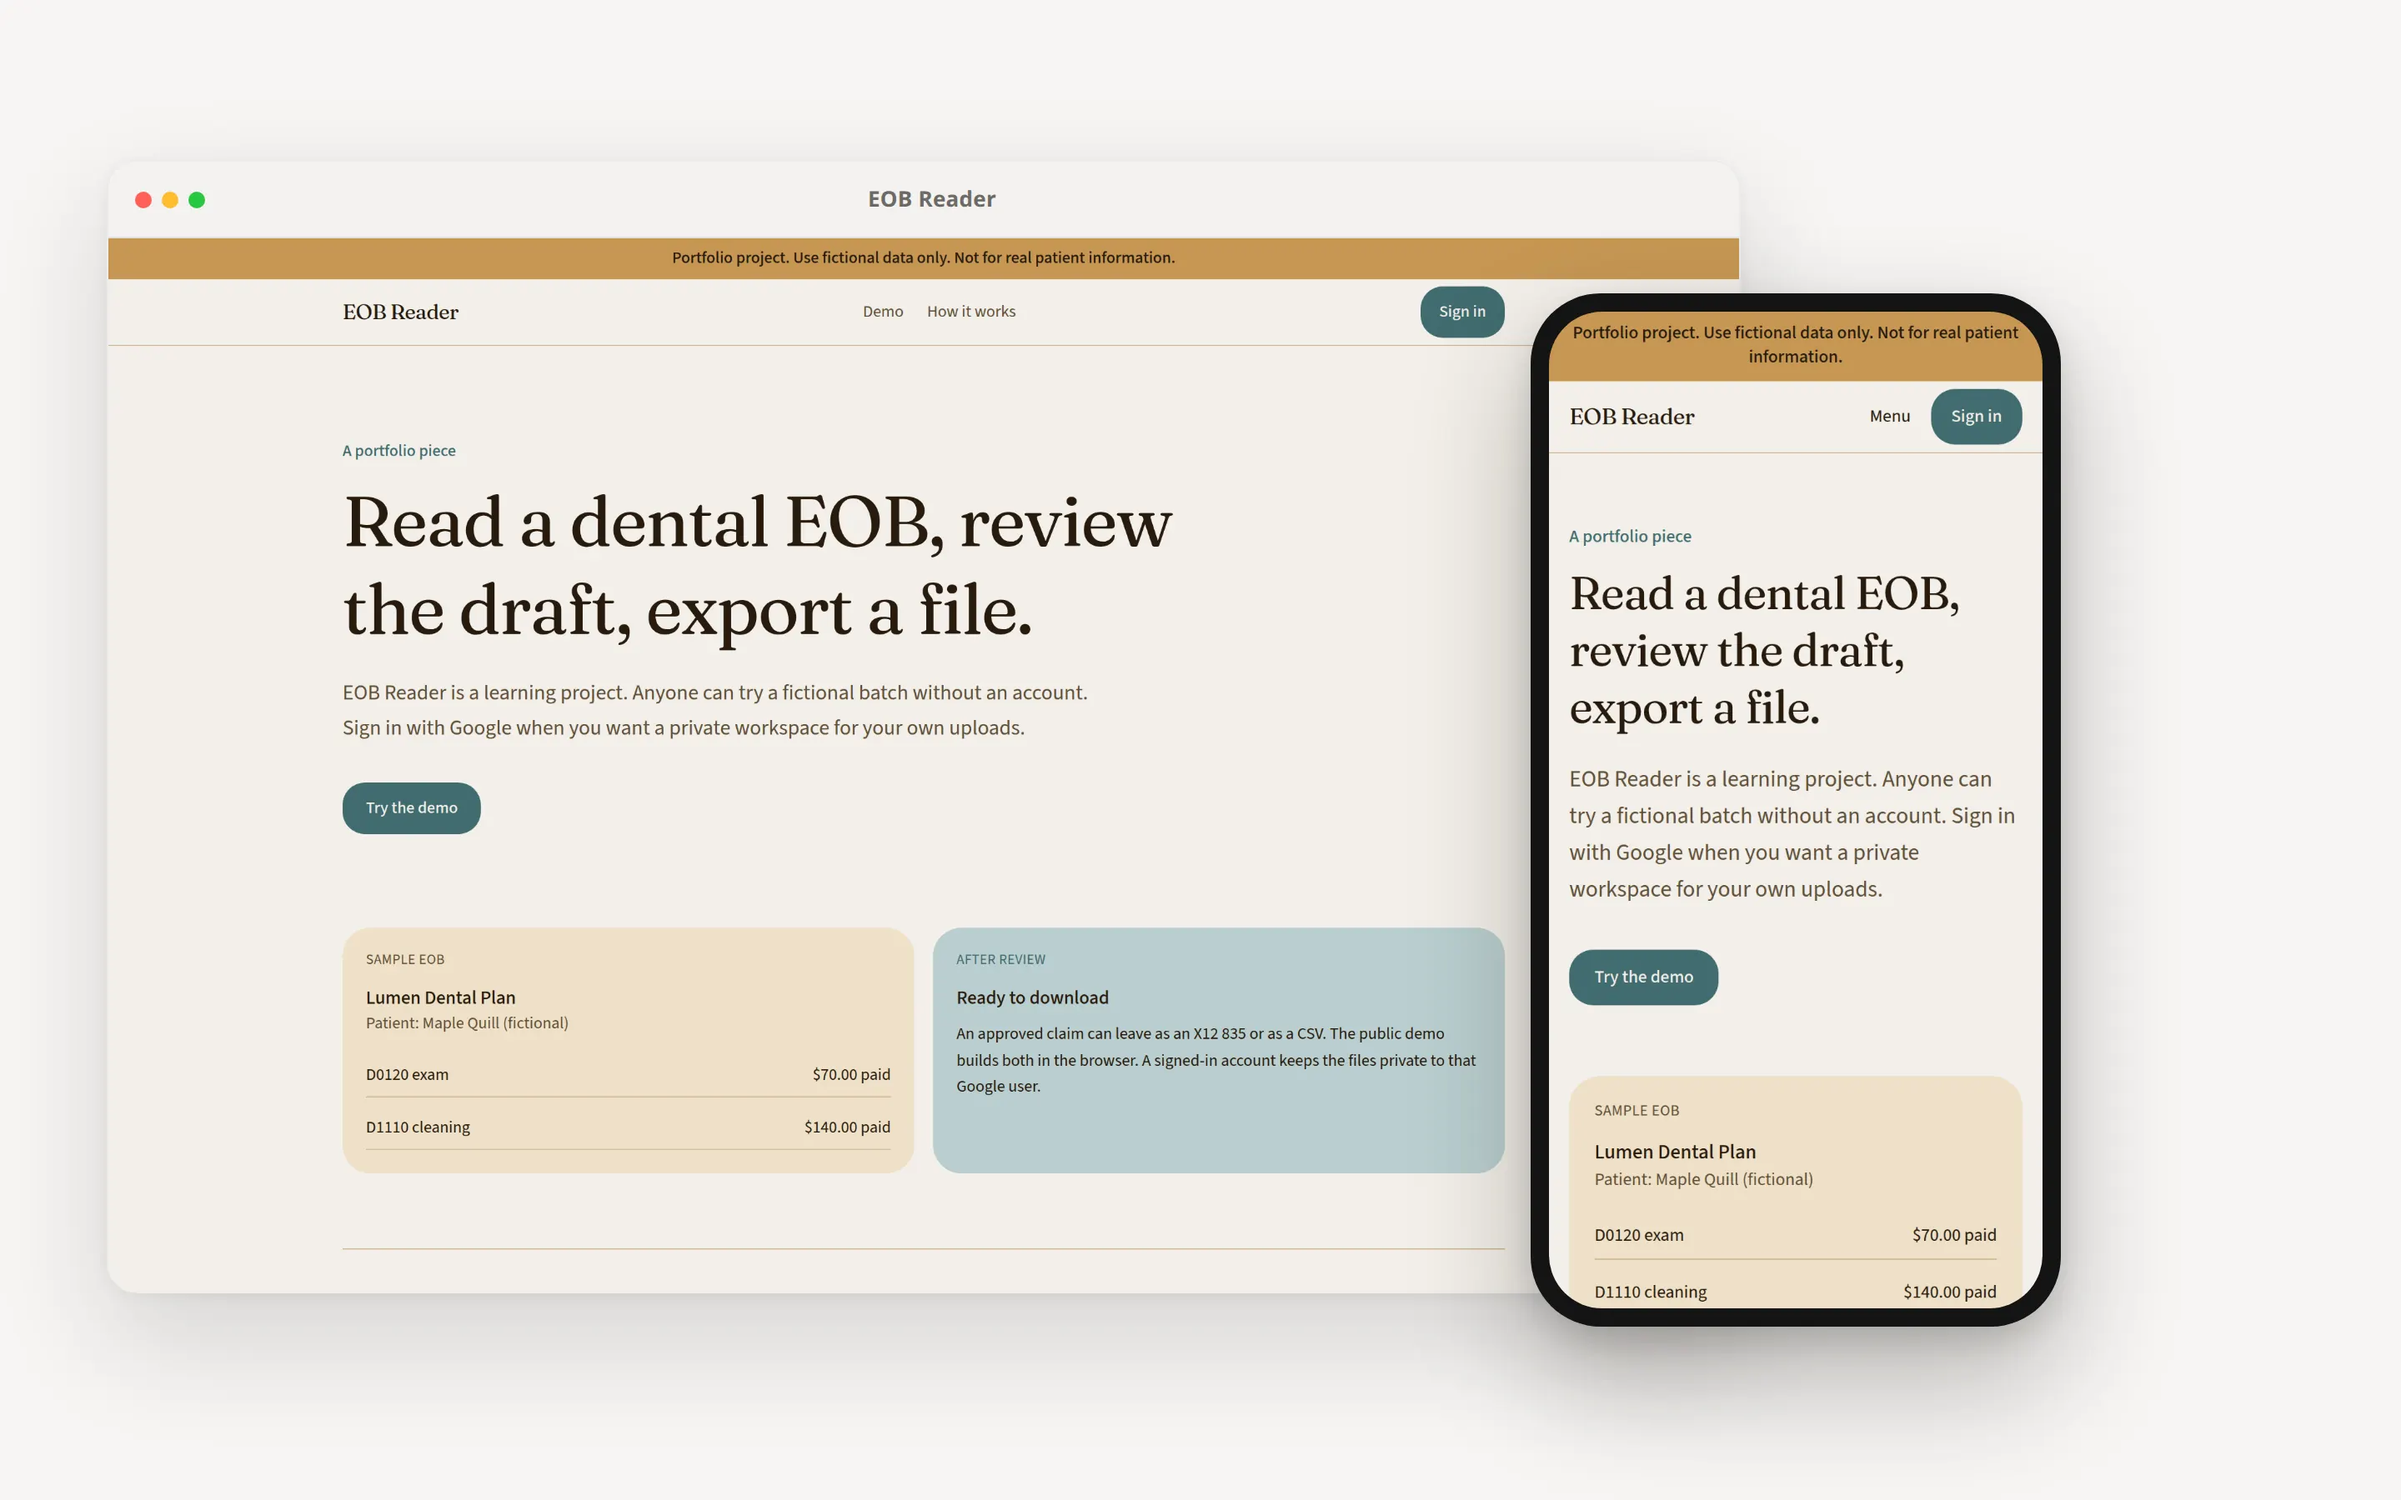
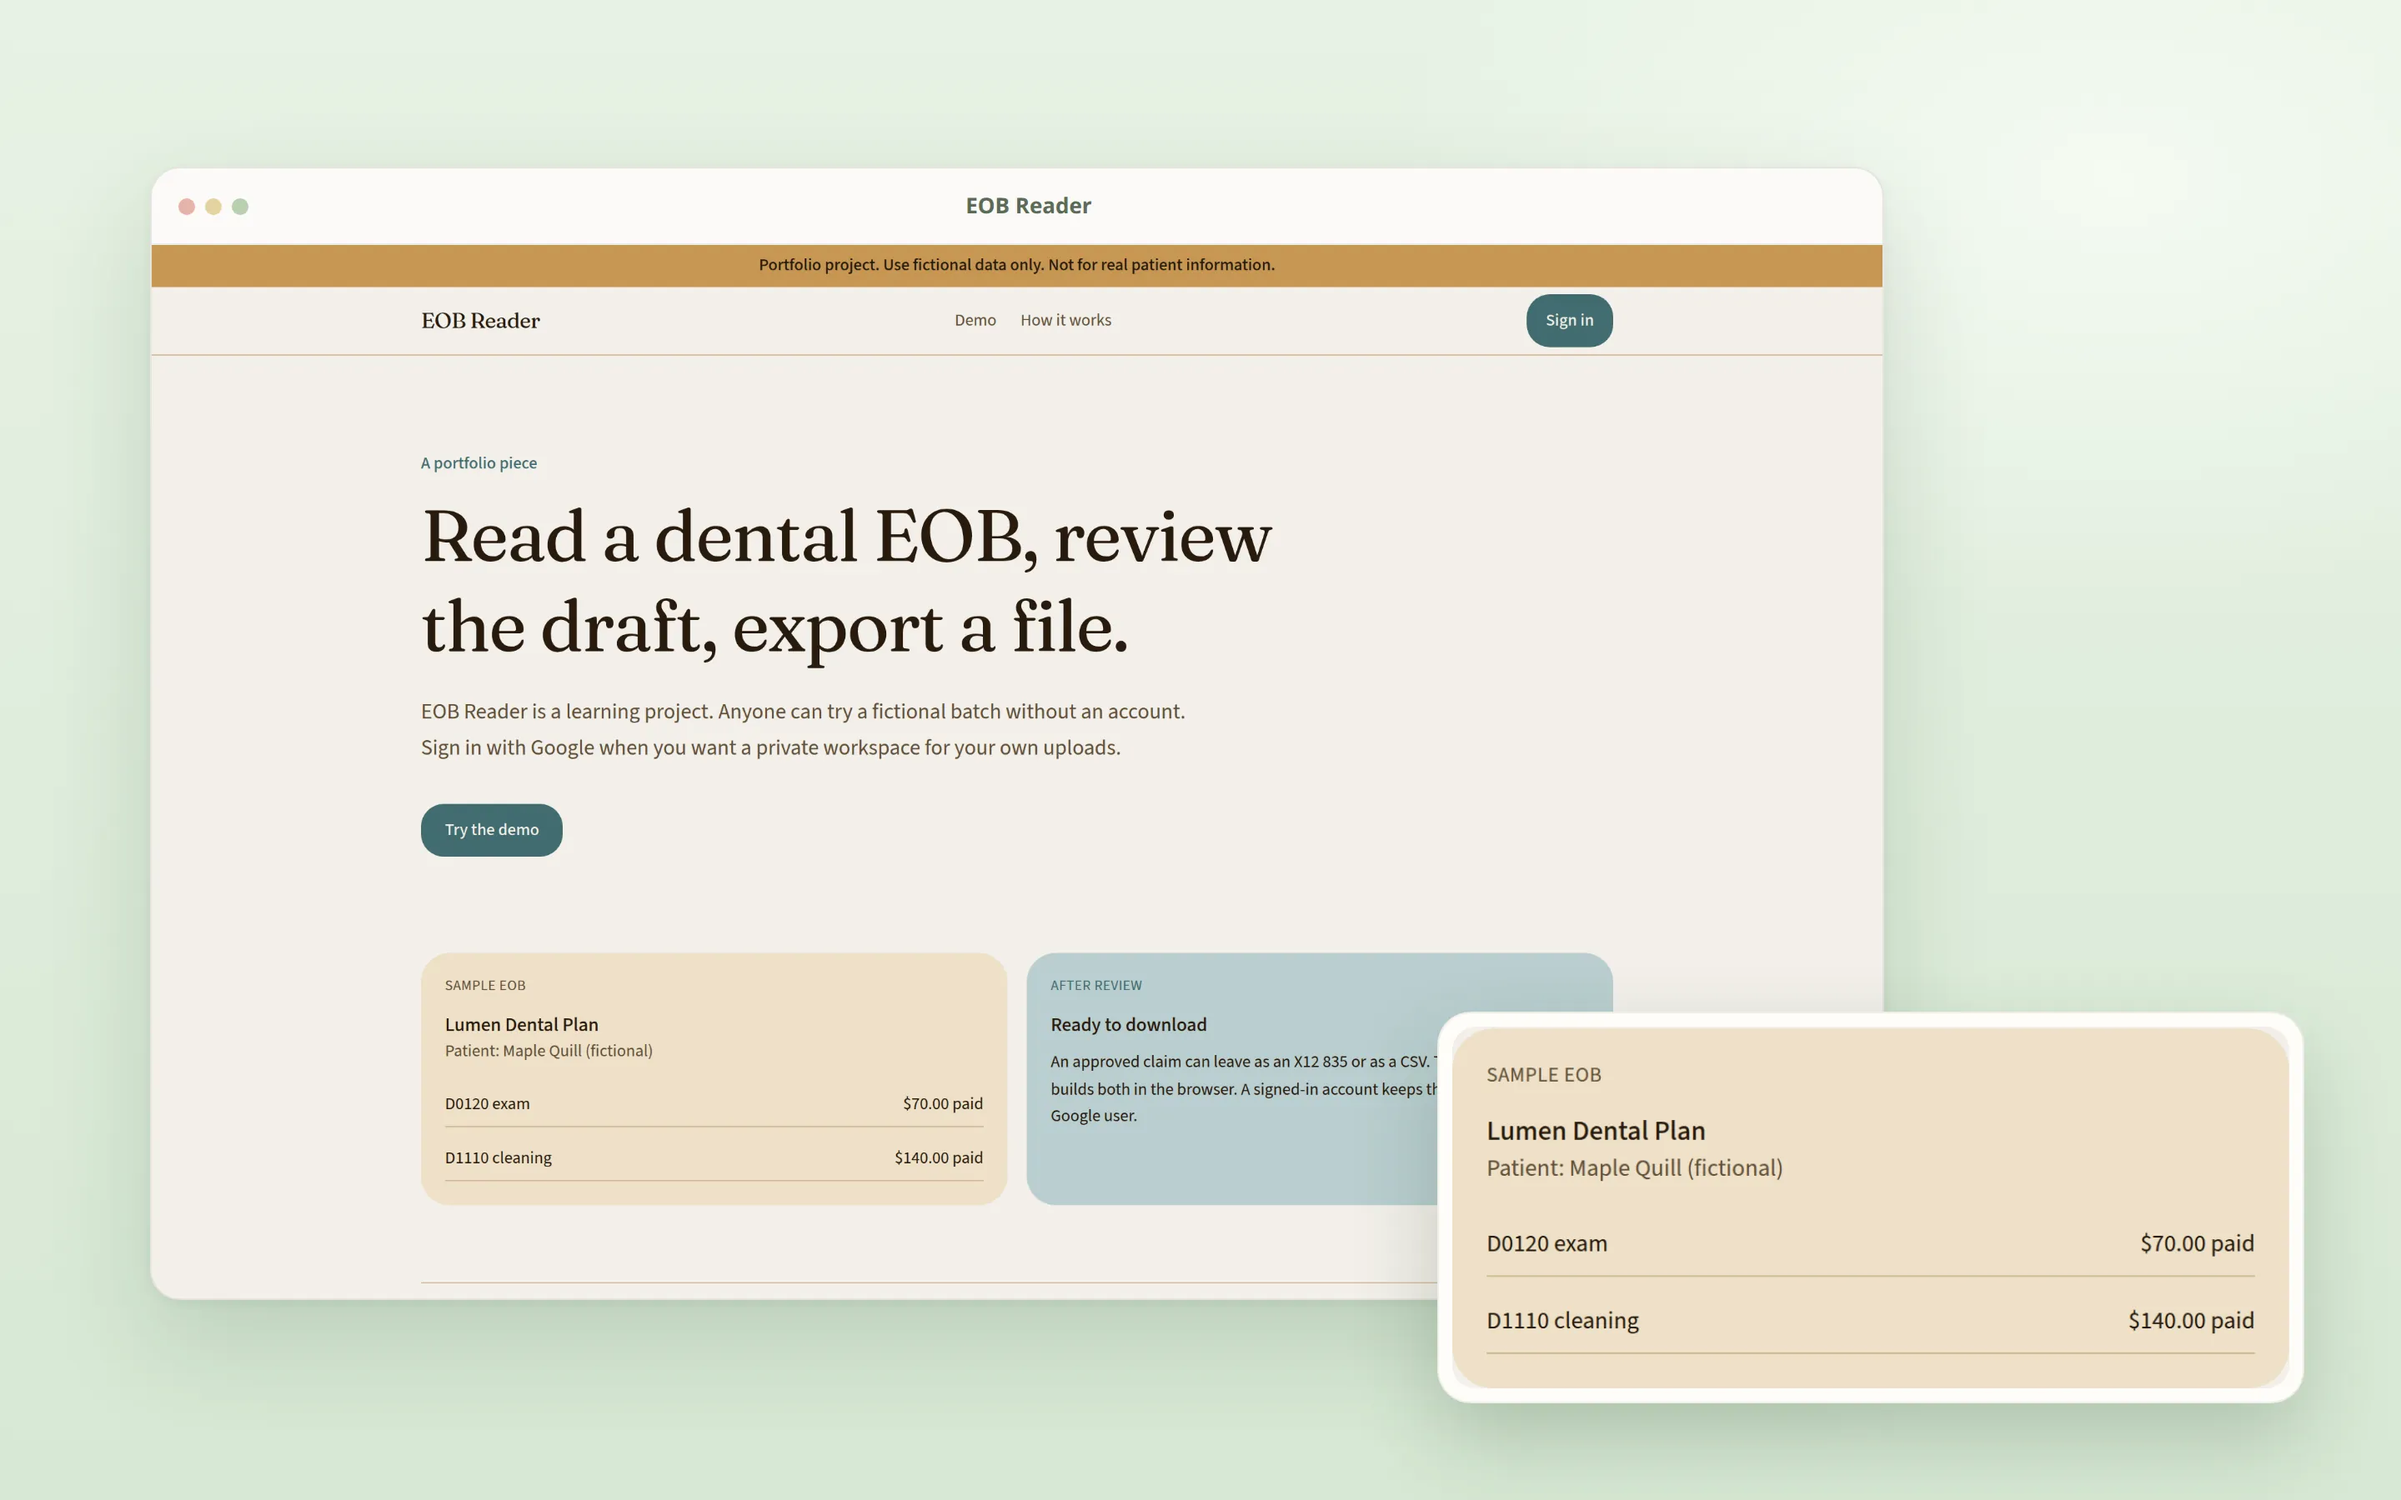
Give Reclaim and EOB Reader desktop only heroes.
Each window fits how the tool is used. Reclaim is angled with the letter overlapping. EOB Reader is straight on, with a zoomed card of the amounts. Groundwork stays as it is.

diff --git a/src/data/projects.ts b/src/data/projects.ts
@@ -52,7 +52,7 @@ const baseProjects: Project[] = [
     tags: ["Document AI", "Letter drafting", "Next.js"],
     thumbnail: "/screenshots/heroes/reclaim.webp",
     thumbnailAlt:
-      "Reclaim on a light background, with the denial worklist in a browser window and the demo on a phone.",
+      "Reclaim on a soft blue background, with the denial list in an angled browser window and the drafted letter overlapping it.",
     role: "Solo engineer",
     methodology: "End to end",
     techStackDetailed: [
@@ -357,7 +357,7 @@ const baseProjects: Project[] = [
     tags: ["Batch extraction", "Human review", "CSV export"],
     thumbnail: "/screenshots/heroes/eob-reader.webp",
     thumbnailAlt:
-      "EOB Reader on a light background, with a sample claim in a browser window and on a phone.",
+      "EOB Reader on a soft green background, with a straight browser window and a zoomed card of the extracted amounts.",
     role: "Solo engineer",
     methodology: "End to end",
     techStackDetailed: [

diff --git a/docs/portfolio-hero-style.md b/docs/portfolio-hero-style.md
@@ -8,7 +8,11 @@ The client recommendation project has no public screens, so it stays without a p
 
 ## What the hero looks like
 
-A clean light background with a lot of empty space. The desktop screen sits inside a browser window: light bar, three dots, soft shadow. A phone frame overlaps the front right, also with a soft shadow. Both frames show the real app, not a drawing.
+Pick the frames that fit how the product is really used. Add a phone only if people use it on a phone. Vary the composition from one project to the next. Do not copy another project's layout.
+
+Groundwork is used on a laptop and a phone, so its hero has both. Reclaim and EOB Reader are desktop tools. Reclaim uses one large browser window, set at a slight angle, on a soft blue background, with the drafted letter as a second card. EOB Reader uses a straight browser window on a soft green background, with a zoomed card of the extracted amounts.
+
+Use real screens from the live app on demo data. Do not draw the interface.
 
 The file is 2880 by 1800 pixels. That is 2 times a 1440 by 900 frame, so the card stays sharp. Save it as webp under `public/screenshots/heroes/`.
 
@@ -16,9 +20,9 @@ The card shows that image at a 16 to 10 ratio. The project panel shows the same 
 
 ## How to make one
 
-1. Open the live app on demo data. Capture one desktop screen and one phone screen. Use the real interface only.
-2. If a person appears, use a male name. Leave out phone numbers.
-3. Put the desktop capture in the browser window and the phone capture in the phone frame, overlapping at the front right.
-4. Keep the background light and leave space around the frames.
+1. Decide which devices people actually use. Capture only those. A desktop tool does not need a phone.
+2. Open the live app on demo data. Use the real interface only.
+3. If a person appears, use a male name. Leave out phone numbers.
+4. Choose a composition that is not the same as the projects already on the site. Change the angle, the background colour, and what overlaps the window.
 5. Export the composition at 2880 by 1800 and compress it to webp.
 6. Set that file as the project `thumbnail`. Add its width and height in `ProjectImage`. Leave the older screenshots in `caseStudy.screenshots`.
